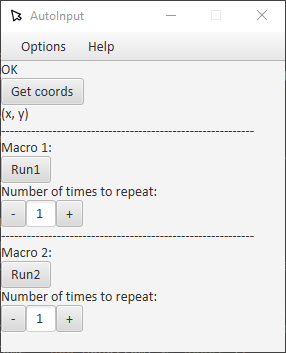
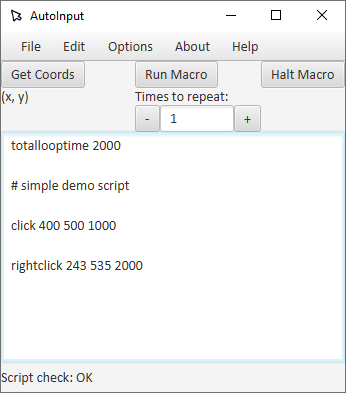
updated screenshot for readme

diff --git a/src/Main.java b/src/Main.java
@@ -155,7 +155,7 @@ public class Main extends Application {
         textArea.setStyle(("height: 100%; -fx-focus-color: transparent;"));
 
 
-        Button runMacroButton = new Button("Run Macro!");
+        Button runMacroButton = new Button("Run Macro");
         Label repeatLabel = new Label("Times to repeat:");
         TextField numTimes = new TextField();
         numTimes.setText("1");
